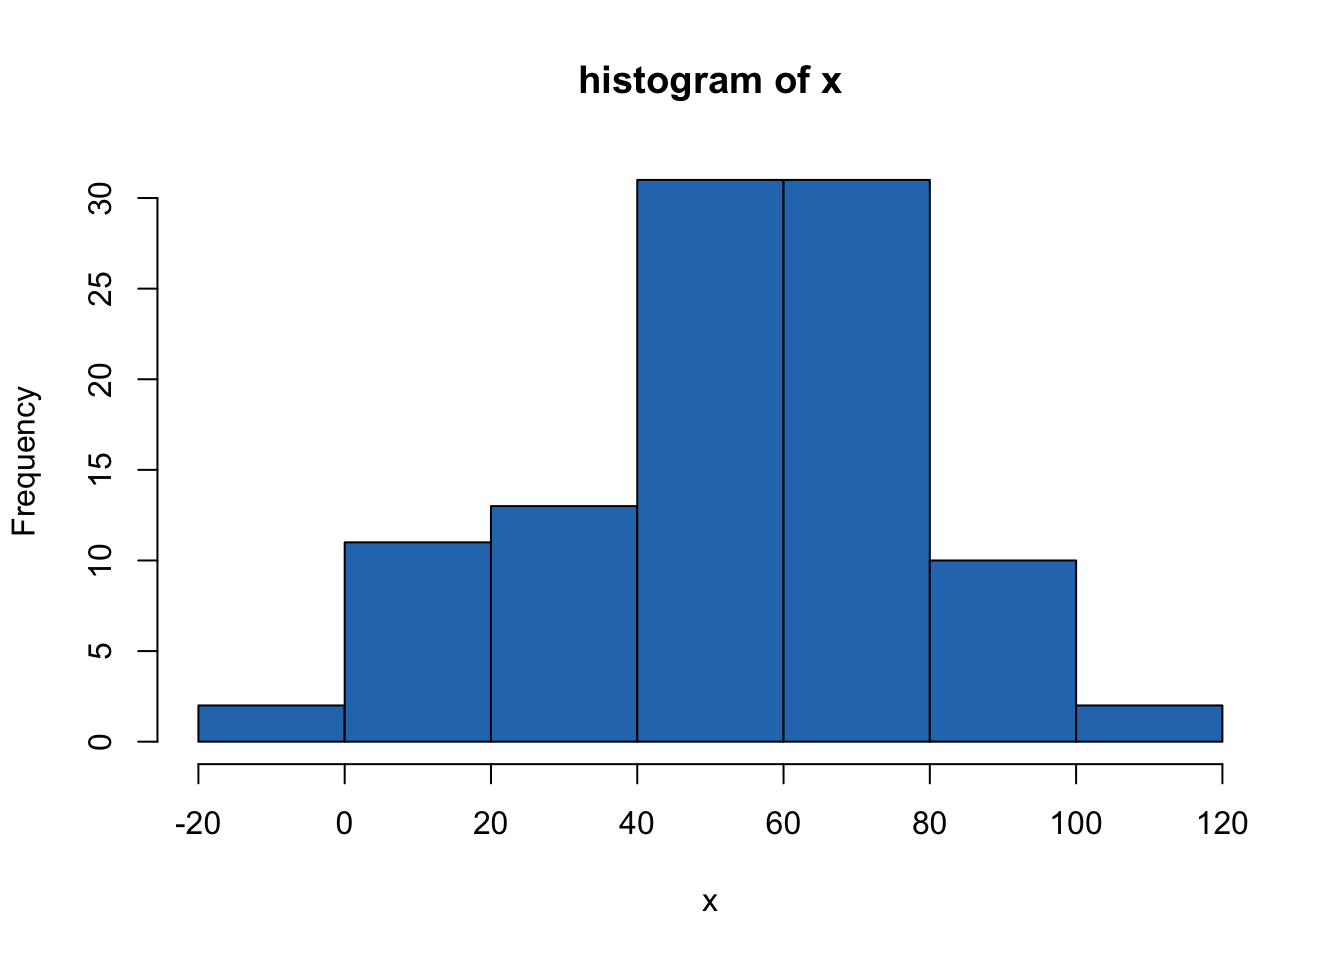
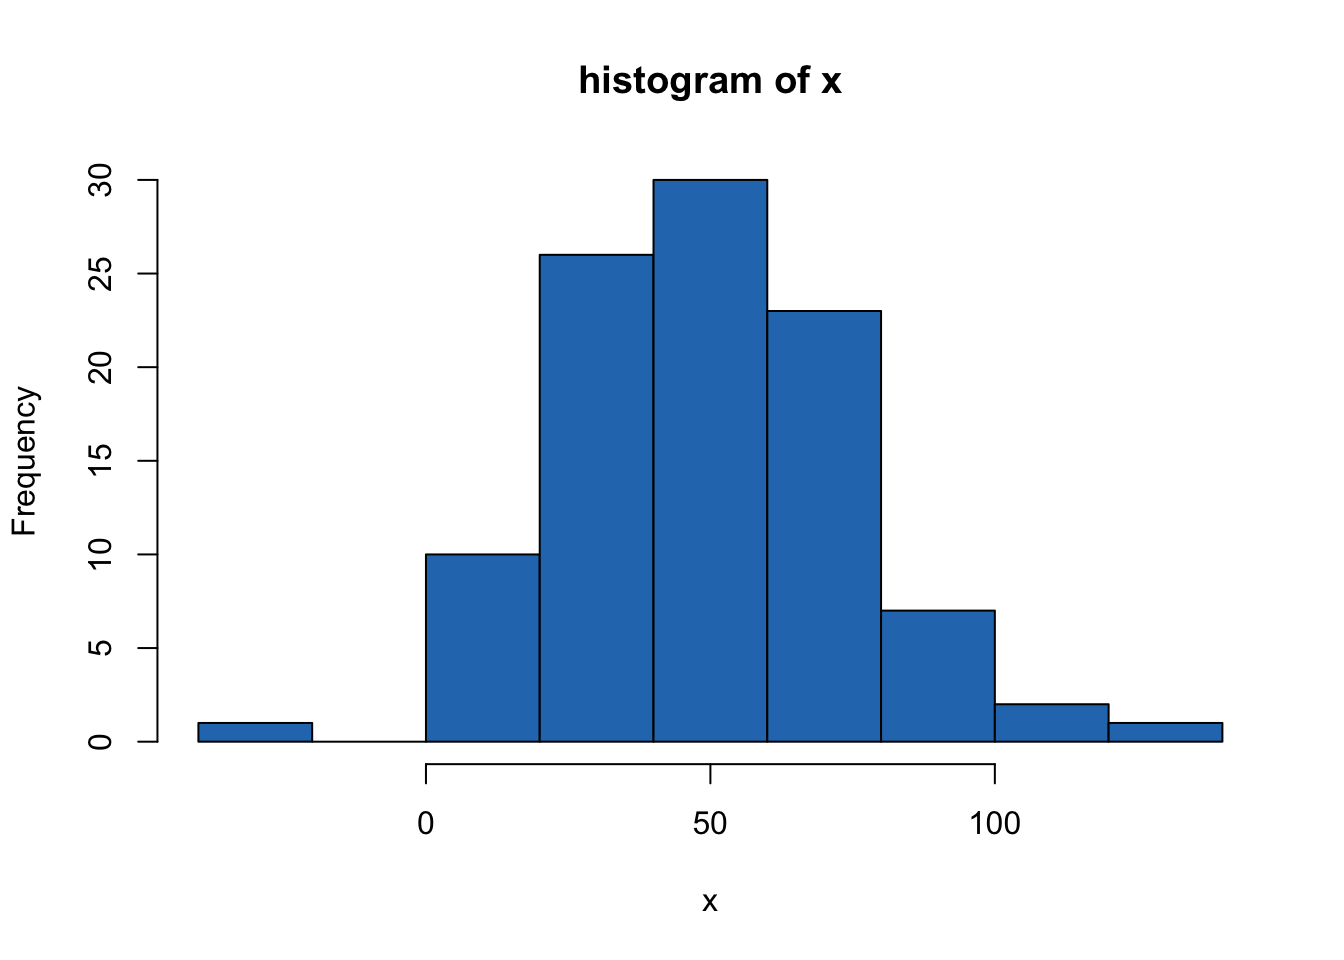
updated date format

diff --git a/introduction-to-R/introduction-to-R.html b/introduction-to-R/introduction-to-R.html
@@ -199,7 +199,7 @@ code span.wa { color: #008000; font-weight: bold; } /* Warning */
 <h1 class="title">Introduction to R</h1>
 <h2 class="subtitle"><em>A Practically Focused Guide</em></h2>
 <p class="author"><em>Andy Grogan-Kaylor</em></p>
-<p class="date"><em>2026-03-31</em></p>
+<p class="date"><em>March 31, 2026</em></p>
 </div>
 <div id="background" class="section level1 hasAnchor" number="1">
 <h1><span class="header-section-number">1</span> Background<a href="#background" class="anchor-section" aria-label="Anchor link to header"></a></h1>
@@ -403,13 +403,13 @@ Figure 6.2: screenshot of RStudio
 </blockquote>
 <div class="sourceCode" id="cb19"><pre class="sourceCode r"><code class="sourceCode r"><span id="cb19-1"><a href="#cb19-1" tabindex="-1"></a><span class="fu">summary</span>(x1) </span></code></pre></div>
 <pre><code>##    Min. 1st Qu.  Median    Mean 3rd Qu.    Max. 
-##   77.82   92.93   99.33  100.09  106.85  124.06</code></pre>
+##   74.50   92.43   99.10   99.29  105.67  125.97</code></pre>
 <blockquote>
 <p>x2 is a factor.</p>
 </blockquote>
 <div class="sourceCode" id="cb21"><pre class="sourceCode r"><code class="sourceCode r"><span id="cb21-1"><a href="#cb21-1" tabindex="-1"></a><span class="fu">summary</span>(x2)</span></code></pre></div>
 <pre><code>##  0  1 
-## 79 21</code></pre>
+## 74 26</code></pre>
 <p>It can sometimes be useful to change variables from one type to another.</p>
 <div class="sourceCode" id="cb23"><pre class="sourceCode r"><code class="sourceCode r"><span id="cb23-1"><a href="#cb23-1" tabindex="-1"></a>mydata<span class="sc">$</span>x <span class="ot">&lt;-</span> <span class="fu">as.numeric</span>(mydata<span class="sc">$</span>y)</span>
 <span id="cb23-2"><a href="#cb23-2" tabindex="-1"></a></span>
@@ -609,7 +609,7 @@ Figure 14.3: scatterplot of y against x
 <div id="comments-questions-and-corrections" class="section level1 hasAnchor" number="15">
 <h1><span class="header-section-number">15</span> Comments, Questions and Corrections<a href="#comments-questions-and-corrections" class="anchor-section" aria-label="Anchor link to header"></a></h1>
 <p>Comments, questions and corrections most welcome and may be sent to: Andrew Grogan-Kaylor @ <a href="http://www.umich.edu/~agrogan">http://www.umich.edu/~agrogan</a> &amp; @ <a href="agrogan@umich.edu">agrogan@umich.edu</a>.</p>
-<p>Last updated: <code>March 31 2026</code> at <code>15:17</code></p>
+<p>Last updated: <code>March 31 2026</code> at <code>15:19</code></p>
 </div>
 <div class="footnotes footnotes-end-of-document">
 <hr />
